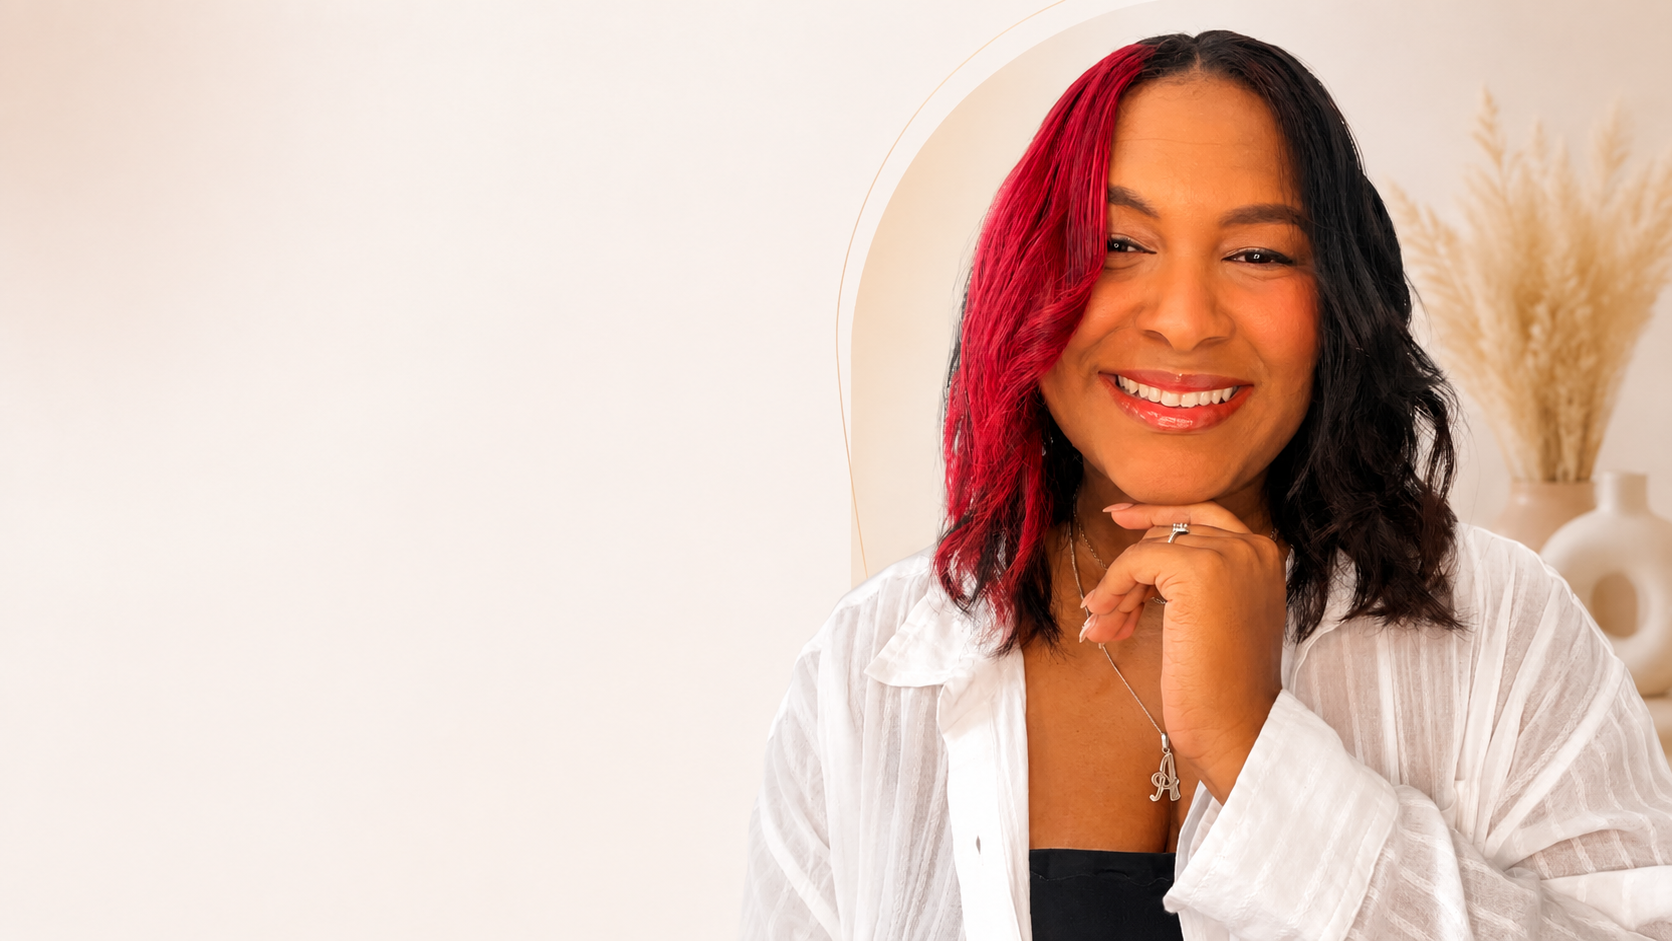
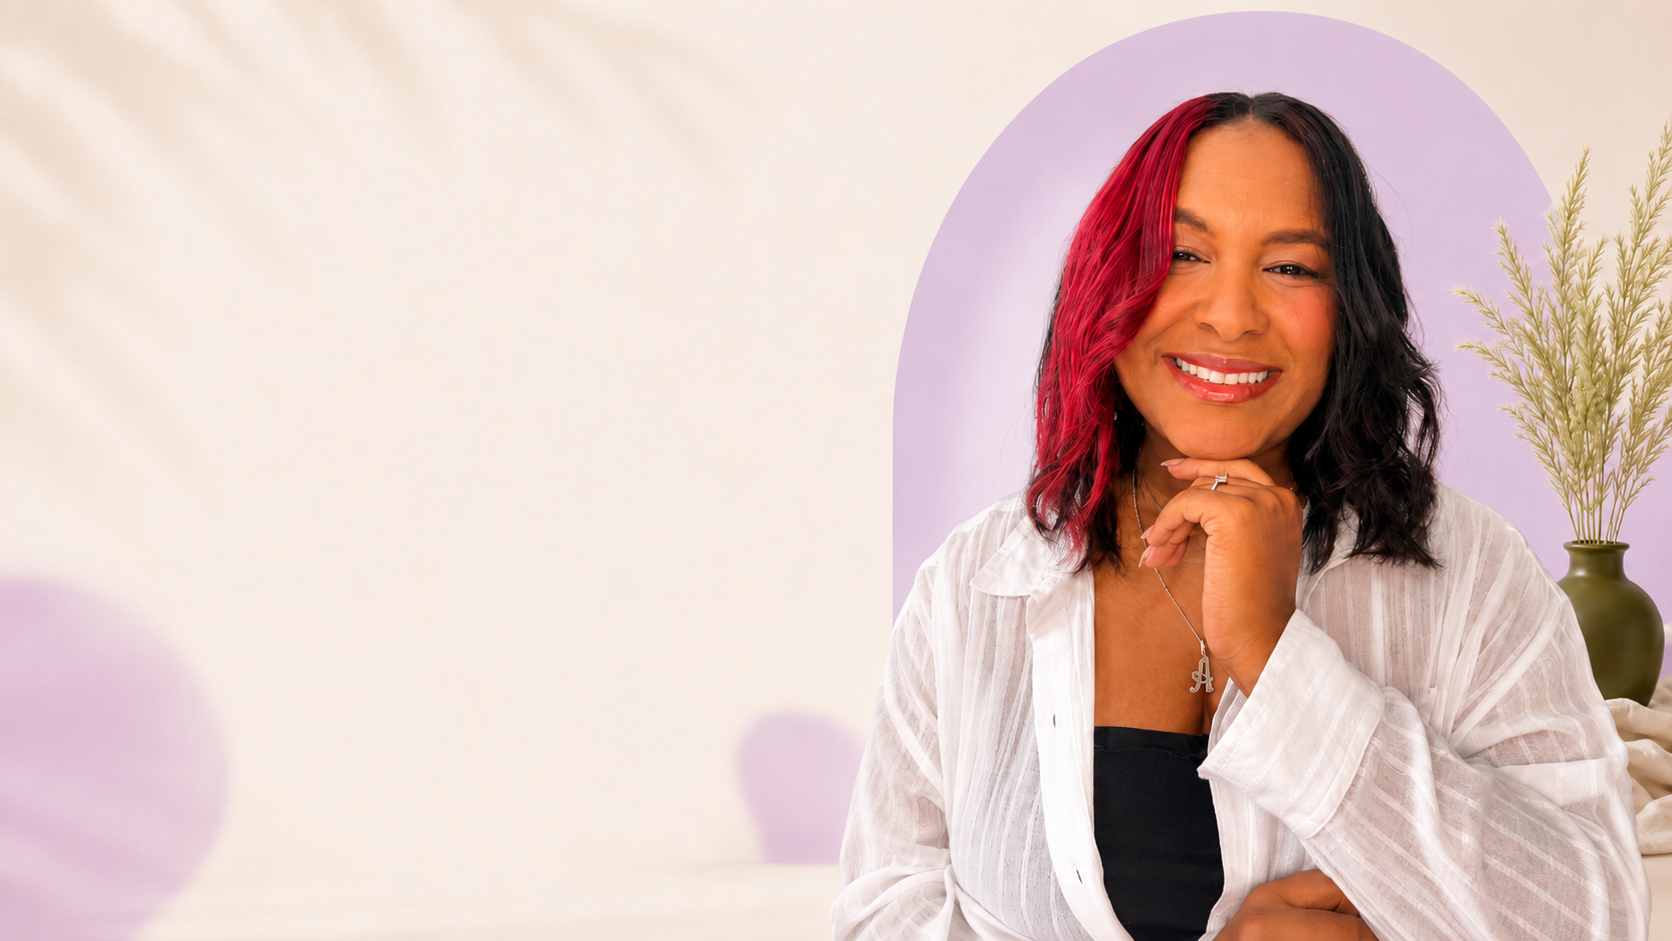
fix: corregir colores del hero a lime y usar foto de fondo definitiva
Cambia el acento del hero de coral a lime (lavanda de marca) en el
título, la línea decorativa, los highlights de la descripción y los
íconos de stats, siguiendo el mockup corregido. Reemplaza la foto
placeholder por la versión final en colores de marca y ajusta el
layout para que la foto haga "bleed" a la derecha del hero en vez de
quedar recortada en una forma orgánica, ya que la nueva foto ya trae
el arco decorativo incorporado.

Claude-Session: https://claude.ai/code/session_019QvRmrHhK8kEV7LFTiqDSB

diff --git a/app/page.tsx b/app/page.tsx
@@ -63,26 +63,35 @@ export default async function HomePage() {
 
       <main>
         {/* HERO */}
-        <section id="about" className="relative overflow-hidden">
-          <div className="mx-auto grid max-w-content gap-sp-8 px-sp-5 py-sp-9 md:grid-cols-[1.1fr,0.9fr] md:items-center">
-            <div>
+        <section id="about" className="relative overflow-hidden bg-cream">
+          <div className="absolute inset-y-0 right-0 hidden w-[46%] md:block">
+            {/* eslint-disable-next-line @next/next/no-img-element */}
+            <img
+              src={hero?.photoUrl ?? "/images/hero-placeholder.png"}
+              alt={hero?.name ?? "Crislia"}
+              className="h-full w-full object-cover"
+            />
+          </div>
+
+          <div className="relative mx-auto max-w-content px-sp-5 py-sp-9">
+            <div className="max-w-xl md:pr-sp-6">
               <span className="inline-flex items-center gap-sp-2 rounded-full border border-line px-sp-4 py-sp-2 font-mono text-[11px] uppercase tracking-widest text-ink/80">
-                <SparkleIcon className="h-3.5 w-3.5 text-coral" />
+                <SparkleIcon className="h-3.5 w-3.5 text-lime" />
                 {hero?.badgeLabel ?? "UGC Creator / Brand Reviews"}
               </span>
 
               <h1 className="mt-sp-5 font-fraunces text-[clamp(2.6rem,6vw,4.8rem)] font-semibold leading-[1.08] tracking-[-0.01em] text-ink">
                 {hero?.headlinePlain ?? "Reseñas que"}
                 <br />
-                <em className="font-fraunces not-italic text-coral">
+                <em className="font-fraunces not-italic text-lime">
                   {hero?.headlineEmphasis ?? "inspiran"}
                 </em>{" "}
                 {hero?.headlineSuffix ?? "confianza."}
               </h1>
 
-              <div className="mt-sp-5 h-px w-40 bg-gradient-to-r from-coral to-transparent" />
+              <div className="mt-sp-5 h-px w-40 bg-gradient-to-r from-lime to-transparent" />
 
-              <p className="mt-sp-5 max-w-xl font-sans leading-relaxed text-ink/75">
+              <p className="mt-sp-5 font-sans leading-relaxed text-ink/75">
                 {renderHighlightedText(
                   hero?.description ??
                     "Creo reseñas **auténticas y contenido UGC** que conecta productos con personas a través de historias __reales__, __honestas y con estilo__."
@@ -109,7 +118,7 @@ export default async function HomePage() {
               {stats.length > 0 && (
                 <div
                   id="media-kit"
-                  className="mt-sp-8 grid max-w-lg grid-cols-2 gap-sp-5 border-t border-line pt-sp-6 sm:grid-cols-3"
+                  className="mt-sp-8 grid grid-cols-2 gap-sp-5 border-t border-line pt-sp-6 sm:grid-cols-3"
                 >
                   {stats.map((stat) => (
                     <HeroStat key={stat.id} value={stat.value} label={stat.label} icon={stat.icon} />
@@ -118,18 +127,13 @@ export default async function HomePage() {
               )}
             </div>
 
-            <div className="relative">
-              <div
-                aria-hidden
-                className="absolute -inset-4 rounded-[45%_55%_60%_40%/50%_45%_55%_50%] bg-gradient-to-br from-coral/25 via-sage/20 to-cobalt/20"
-              />
-              {/* eslint-disable-next-line @next/next/no-img-element */}
-              <img
-                src={hero?.photoUrl ?? "/images/hero-placeholder.png"}
-                alt={hero?.name ?? "Crislia"}
-                className="relative aspect-[4/5] w-full rounded-[45%_55%_60%_40%/50%_45%_55%_50%] object-cover shadow-xl"
-              />
-            </div>
+            {/* Foto en mobile — el bleed absoluto de arriba solo se ve desde md en adelante */}
+            {/* eslint-disable-next-line @next/next/no-img-element */}
+            <img
+              src={hero?.photoUrl ?? "/images/hero-placeholder.png"}
+              alt={hero?.name ?? "Crislia"}
+              className="mt-sp-7 aspect-[4/5] w-full rounded-md object-cover md:hidden"
+            />
           </div>
         </section>
 

diff --git a/lib/highlight.tsx b/lib/highlight.tsx
@@ -2,7 +2,7 @@ import type { ReactNode } from "react";
 
 /**
  * Convención simple para el admin: `**texto**` resalta en negrita color ink,
- * `__texto__` resalta en negrita color coral (acento de marca).
+ * `__texto__` resalta en negrita color lime (acento de marca).
  */
 export function renderHighlightedText(text: string): ReactNode[] {
   const parts = text.split(/(\*\*[^*]+\*\*|__[^_]+__)/g).filter(Boolean);
@@ -17,7 +17,7 @@ export function renderHighlightedText(text: string): ReactNode[] {
     }
     if (part.startsWith("__") && part.endsWith("__")) {
       return (
-        <strong key={index} className="font-semibold text-coral">
+        <strong key={index} className="font-semibold text-lime">
           {part.slice(2, -2)}
         </strong>
       );

diff --git a/app/admin/(dashboard)/media-kit/StatsManager.tsx b/app/admin/(dashboard)/media-kit/StatsManager.tsx
@@ -86,7 +86,7 @@ export default function StatsManager({ initialStats }: { initialStats: Stat[] })
               disableUp={index === 0}
               disableDown={index === stats.length - 1}
             />
-            <span className="flex h-9 w-9 shrink-0 items-center justify-center rounded-full bg-coral/15 text-coral">
+            <span className="flex h-9 w-9 shrink-0 items-center justify-center rounded-full bg-lime/30 text-coral">
               {(() => {
                 const Icon = STAT_ICONS[stat.icon as StatIconKey] ?? StarIcon;
                 return <Icon className="h-4 w-4" />;

diff --git a/components/HeroStat.tsx b/components/HeroStat.tsx
@@ -11,7 +11,7 @@ export default function HeroStat({ value, label, icon }: HeroStatProps) {
 
   return (
     <div className="flex items-start gap-sp-3">
-      <span className="flex h-10 w-10 shrink-0 items-center justify-center rounded-full bg-coral/15 text-coral">
+      <span className="flex h-10 w-10 shrink-0 items-center justify-center rounded-full bg-lime/30 text-coral">
         <Icon className="h-4 w-4" />
       </span>
       <div>
